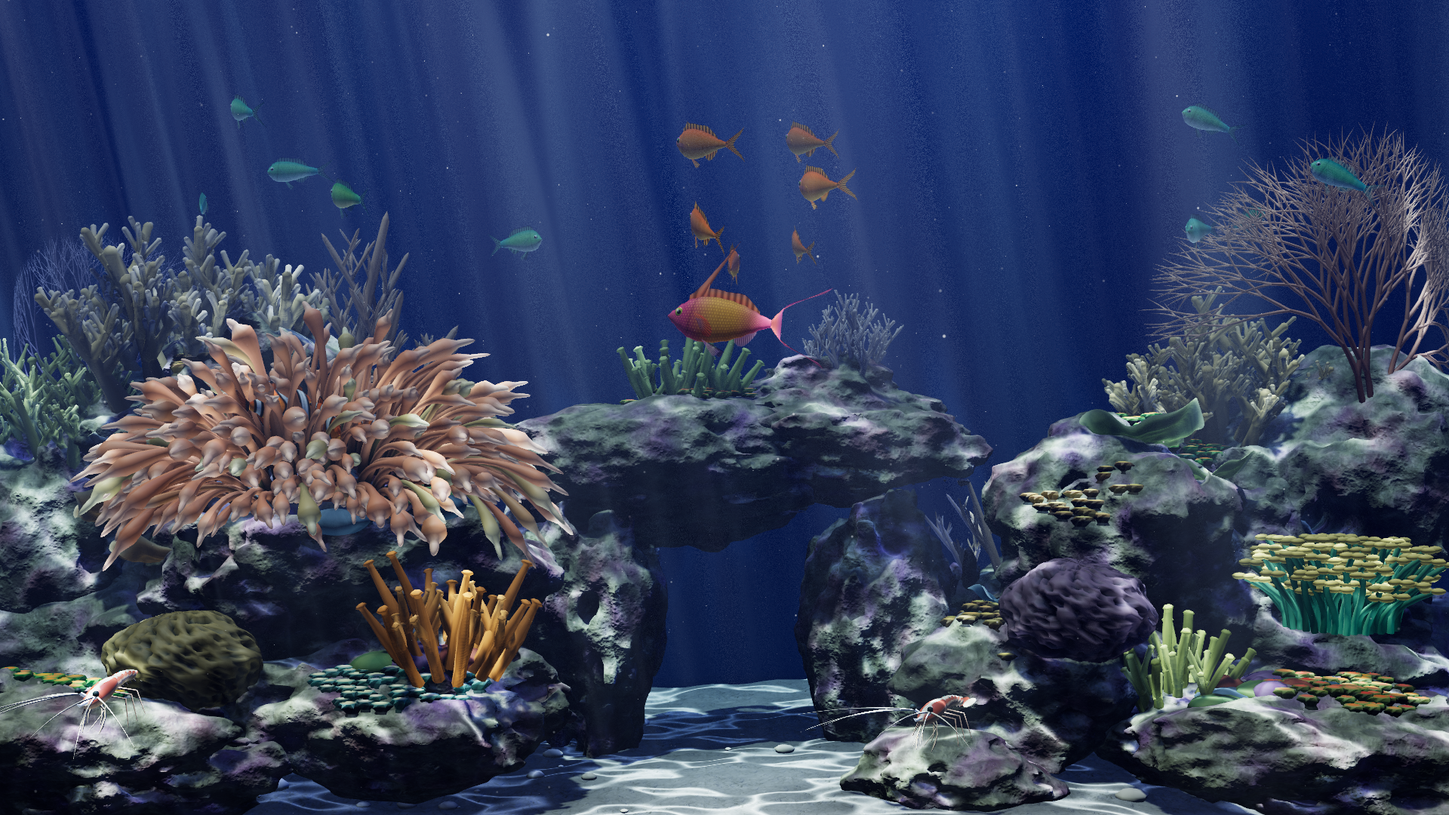
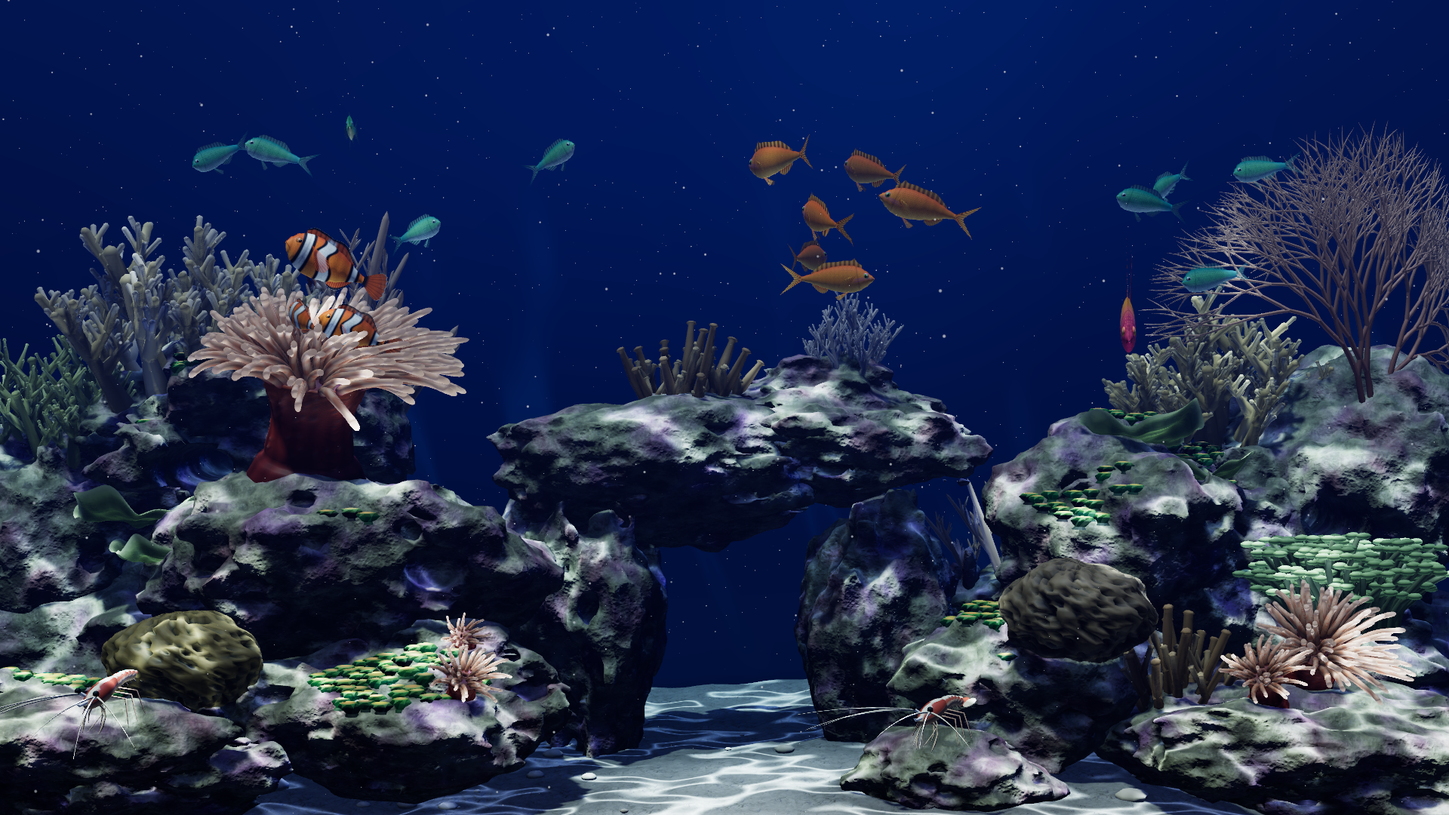
Rebuild Reefscape's anemone as a stem and crown, and clone it across the scape
The anemone is Chase's 2D duskrose anemone from Remora taken into three dimensions with
rotational symmetry: a waisted column with a pedal disc, striation and verrucae standing on
the rock; an oral disc with an elliptical slit mouth; tentacles rooted by stratified radius
and the golden angle, each a circular arc in its own radial frame that leaves the disc at a
lean growing with its ring and curls further outward, with a small out-of-plane wander and
the flow's cantilever bend on top; a finger profile tapering to a narrow neck under a small
knob. Tissue is wine at the root, cream-peach with orange-red blotches along the shaft,
darker toward deep orange where the crown buries it, and translucent through the per-fragment
transmission expression that underwater() offered but nothing had used.

Every proportion is a share of the animal's scale, so ANEMONES in layout.js places the host
and four clones at different sizes and leans, the ones toward the viewer showing their
discs; HOST now names the disc and the column drops from it to the rock. TENTACLE_COUNT is
the sum and the presets take fractions of it. Capture mode gains an arbitrary camera
(?view=custom&camera=…) for judging details no named view frames.

The handoff records the rebuild, the coral thinning, the critic's verdict on the state
before the last fix round, and what is left. docs/images/reefscape-wide.png is regenerated.

diff --git a/scenes/reefscape/src/anemone.js b/scenes/reefscape/src/anemone.js
@@ -1,111 +1,182 @@
 import * as THREE from 'three';
 import { underwater,responseGLSL } from './water.js';
-import { randomGenerator,smoothstep } from './math.js';
-import { tint } from './geometry.js';
-import { HOST } from './layout.js';
+import { randomGenerator,smoothstep,clamp,lerp,noise } from './math.js';
+import { merge } from './geometry.js';
+import { ANEMONES } from './layout.js';
+import { supportHeight } from './terrain.js';
 
-export const TENTACLE_COUNT=440;
-// Crown lengths and girths below are written for a 1.4-unit disc; one factor rescales the
-// whole animal with the host's radius, so the proportions survive a change of size.
-const SCALE=HOST.radius/1.40;
-// Oral disc, rolled margin and column are one surface of revolution: t=1 is the
-// tentacle-bearing margin, past it the body rolls under and tucks into the rock.
-const MARGIN=1.50,DISC_Z=.78,DOME=.44,TUCK=1.45,BODY_T=Math.PI/MARGIN;
-function bodyPoint(a,t,out){
-  const phi=t*MARGIN,fold=1+.075*Math.sin(a*3+.5)+.032*Math.sin(a*7+2.1);
-  const r=HOST.radius*fold*Math.sin(phi)/Math.sin(MARGIN),x=Math.cos(a)*r,z=Math.sin(a)*r*DISC_Z,drop=Math.cos(phi)-Math.cos(MARGIN);
-  // A low oral cone with the mouth sunk into it, plus shallow radial folds.
-  const mouth=.160*Math.exp(-((t/.285)**2))-.165*Math.exp(-((t/.10)**2));
-  return out.set(HOST.x+x,HOST.y+drop*(DOME+TUCK*smoothstep(0,.40,-drop))+mouth+.042*Math.sin(a*5+1.2)*t*t-.13*z,HOST.z+z);
+// One anemone is a column standing on the rock with a crown of tentacles on the oral disc
+// at its top; every proportion below is a share of the animal's scale S, so the clownfish
+// host and a small colony elsewhere are the same animal at different sizes. The shape is
+// Remora's duskrose anemone taken into three dimensions: a rounded foot, a waist and a
+// flare to the rim; tentacles rooted on a golden-angle spiral over the disc, each a
+// tapering finger with a rounded, faintly swollen tip, leaving the disc a little off the
+// axis and arcing further outward along its length, so the inner rings stand and the
+// outer ring hangs over the rim. The crown's reach is roughly REACH·S, and a placement
+// in layout.js states that reach, so the scale follows from it.
+const REACH=.90,COLUMN_HEIGHT=.66,RIM=.36,ROOT_RADIUS=.24;
+// Column silhouette as [share of height, radius/S]: the pedal disc gripping the rock, a
+// waist, and the flare to the rim; cosine-blended so the rim rounds off and the waist is a
+// smooth throat rather than a kink. Below the rock the foot spreads on, hidden, so no
+// edge of it can float over a hollow.
+const COLUMN=[[0,.37],[.10,.31],[.5,.28],[1,RIM]];
+function columnRadius(u){
+  if(u<0)return COLUMN[0][1]*(1-u*.8);
+  for(let i=1;i<COLUMN.length;i++){const [u0,r0]=COLUMN[i-1],[u1,r1]=COLUMN[i];if(u<=u1)return lerp(r0,r1,.5-.5*Math.cos(Math.PI*(u-u0)/(u1-u0)));}
+  return RIM;
 }
+// The disc is a shallow dome over the tentacle field; v runs from the rim (0) to the
+// centre (1). The mouth is an elliptical slit with raised lips, so e is the distance from
+// the centre stretched along the slit's axis.
+const discLift=v=>.045*smoothstep(0,.45,v);
+const mouthLift=e=>.030*Math.exp(-(((e-.20)/.08)**2))-.045*(1-smoothstep(0,.11,e));
+const GOLDEN=Math.PI*(3-Math.sqrt(5)),E=Math.E,hash=seed=>{const v=Math.sin(seed*E)*Math.cos(seed*Math.PI)*1e4;return v-Math.floor(v);};
+// Verrucae: the adhesive warts a column carries, a staggered lattice crowding toward the
+// rim with a share of its sites left bare, read as a pale mottle and a slight relief.
+const VERRUCAE={rows:12,cols:20,skip:.22,jitter:.9,topBias:.55,size:.020};
+function verruca(a,u,seed){
+  const {rows,cols,skip,jitter,topBias,size}=VERRUCAE,rf=Math.pow(clamp(u,0,1),1/topBias)*rows;let best=0;
+  for(let dr=-1;dr<=1;dr++){const row=Math.floor(rf)+dr;if(row<0||row>=rows)continue;
+    const cf=a/(2*Math.PI)*cols-(row%2)/2;
+    for(let dc=-1;dc<=1;dc++){const col=((Math.floor(cf)+dc)%cols+cols)%cols,site=row*cols+col+seed;
+      if(hash(site*E+401)<skip)continue;
+      const cy=Math.pow((row+.5+(hash(site*Math.PI+411)-.5)*jitter)/rows,topBias),cx=(col+.5+(row%2)/2+(hash(site*E+421)-.5)*jitter)/cols*2*Math.PI;
+      const wart=size*(.45+.9*hash(site*E+441))*(.5+.5*cy),da=Math.atan2(Math.sin(a-cx),Math.cos(a-cx))*columnRadius(clamp(u,0,1)),dy=(u-cy)*COLUMN_HEIGHT;
+      best=Math.max(best,Math.exp(-(da*da+dy*dy)/(wart*wart)*1.6)*(.55+.45*hash(site*Math.PI+431)));}}
+  return best;
+}
+const FOOT=new THREE.Color('#7a2c24'),SHAFT=new THREE.Color('#c04a2c'),LIP=new THREE.Color('#d0663a'),WART=new THREE.Color('#e0a08c'),DISC=new THREE.Color('#a8564c'),LIPS=new THREE.Color('#c07868'),MOUTH=new THREE.Color('#3a1018');
+// Each placement becomes one column-and-disc surface of revolution about its own axis,
+// standing on the rock; the disc's dome carries the tentacle roots.
+function specimen(spec,index){
+  const S=spec.radius/REACH,H=COLUMN_HEIGHT*S,up=new THREE.Vector3(0,1,0),axis=new THREE.Vector3();
+  // The axis leans a little with the rock it stands on and by whatever the placement asks
+  // for; the disc's position is authored, the column drops from it to wherever the rock is.
+  const step=.25,lean=spec.lean||[0,0],slopeX=(supportHeight(spec.x+step,spec.z)-supportHeight(spec.x-step,spec.z))/(2*step),slopeZ=(supportHeight(spec.x,spec.z+step)-supportHeight(spec.x,spec.z-step))/(2*step);
+  axis.set(-slopeX*.35+lean[0],1,-slopeZ*.35+lean[1]).normalize();
+  const frame=new THREE.Quaternion().setFromUnitVectors(up,axis),disc=new THREE.Vector3(spec.x,spec.y,spec.z);
+  const foot=disc.clone().addScaledVector(axis,-H),sunk=Math.max(.12*S,foot.y-supportHeight(foot.x,foot.z)+.04);
+  return {S,H,frame,foot,sunk,seed:index*977,count:tentacleCount(spec)};
+}
+function bodyGeometry(sp){
+  const {S,H,frame,foot,sunk,seed}=sp,rings=56,segments=72,pos=[],col=[],idx=[],point=new THREE.Vector3(),color=new THREE.Color(),FOLD=.68;
+  for(let j=0;j<=rings;j++){const t=j/rings;
+    for(let i=0;i<=segments;i++){const a=i/segments*Math.PI*2;
+      let r,y,shade=1;
+      if(t<FOLD){
+        // Column: u runs from below the rock (hidden, so the foot never floats) to the rim.
+        const u=lerp(-sunk/H,1,t/FOLD),wart=verruca(a,u,seed),edge=1+.012*noise(Math.cos(a)*3+seed,u*4,Math.sin(a)*3);
+        // Longitudinal striation: the mesenterial insertions show through the body wall as
+        // shallow grooves that fade below the rim.
+        const groove=Math.pow(.5+.5*Math.cos(a*14+seed),1.5)*(1-smoothstep(.70,.92,u)),base=columnRadius(u);
+        r=S*base*edge*(1-.012*groove)*(1+.8*VERRUCAE.size*wart/base);y=H*u;
+        color.copy(FOOT).lerp(SHAFT,smoothstep(.05,.55,u)).lerp(LIP,smoothstep(.55,1,u)).lerp(WART,Math.min(1,wart*.55));
+        // The crown shades the top of the column and the grooves lie in their own shadow.
+        shade=(1-.42*smoothstep(.72,1,u))*(1-.30*groove);
+      }else{
+        const v=(t-FOLD)/(1-FOLD),e=(1-v)*(1+.30*Math.cos(2*a+seed));r=S*RIM*(1-v);y=H+S*(discLift(v)+mouthLift(e));
+        // Mesenterial lines radiate from the mouth across the disc, which sits in the crown's shade.
+        color.copy(DISC).lerp(LIPS,Math.exp(-(((e-.20)/.10)**2))).lerp(MOUTH,1-smoothstep(.04,.13,e));
+        shade=.45*(1-.14*smoothstep(.55,1,Math.cos(a*24))*smoothstep(.15,.4,v)*(1-smoothstep(.7,.9,v)));
+      }
+      point.set(Math.cos(a)*r,y,Math.sin(a)*r).applyQuaternion(frame).add(foot);
+      pos.push(point.x,point.y,point.z);col.push(color.r*shade,color.g*shade,color.b*shade);
+      if(j<rings&&i<segments){const k=j*(segments+1)+i;idx.push(k,k+segments+1,k+1,k+1,k+segments+1,k+segments+2);}}}
+  const geo=new THREE.BufferGeometry();geo.setAttribute('position',new THREE.Float32BufferAttribute(pos,3));geo.setAttribute('color',new THREE.Float32BufferAttribute(col,3));geo.setIndex(idx);geo.computeVertexNormals();
+  return geo;
+}
+// A tentacle's mesh is a straight tube whose position.y is the axial parameter and whose
+// cross-section is the profile in shares of the base radius; the vertex shader bends it.
+function tentacleGeometry(){
+  const levels=[0,.10,.20,.30,.40,.50,.59,.67,.74,.80,.85,.89,.92,.945,.96,.972,.983,.992,.998,1],sides=12,CAP=.945,pos=[],idx=[];
+  // Tapers to half its base by the neck, swells into a small knob, then closes as a
+  // rounded tip a little longer than it is wide.
+  const neck=s=>(1-.50*Math.pow(s,2.0))*(1+.24*Math.exp(-(((s-.91)/.065)**2)));
+  const radius=s=>s<=CAP?neck(s):neck(CAP)*Math.sqrt(Math.max(0,1-((s-CAP)/(1-CAP))**2));
+  for(let j=0;j<levels.length;j++){const s=levels[j],r=radius(s);
+    for(let i=0;i<=sides;i++){const a=i/sides*Math.PI*2;pos.push(Math.cos(a)*r,s,Math.sin(a)*r);if(j<levels.length-1&&i<sides){const k=j*(sides+1)+i;idx.push(k,k+sides+1,k+1,k+1,k+sides+1,k+sides+2);}}}
+  // Closed base: a root standing a little proud of the disc would otherwise show as a black slot.
+  const hub=pos.length/3;pos.push(0,0,0);for(let i=0;i<sides;i++)idx.push(hub,i,i+1);
+  const geo=new THREE.BufferGeometry();geo.setAttribute('position',new THREE.Float32BufferAttribute(pos,3));geo.setIndex(idx);geo.computeVertexNormals();return geo;
+}
+// A small anemone has fewer tentacles than a large one, but not in proportion to its
+// disc's area (about 170 on the host, 30 on the smallest clone), and for its size they are
+// shorter and stouter: a clone is a stubby-fingered version of the host, not a miniature.
+const tentacleCount=spec=>Math.round(110*Math.pow(spec.radius/REACH,1.3));
+const girthOf=S=>.036*Math.pow(S,.70),lengthOf=S=>.48*Math.pow(S,1.15);
+export const TENTACLE_COUNT=ANEMONES.reduce((n,spec)=>n+tentacleCount(spec),0);
 export function createAnemone(scene){
-  const rng=randomGenerator(8945),pos=[],idx=[];
-  // Entacmaea quadricolor: a near-cylindrical shaft that clubs into a bulb at .875,
-  // wider than it is long, pinched by a short neck. Past CAP the tentacle closes as
-  // a hemisphere of the neck radius — a blunt nipple, never a taper run out to a spike.
-  const levels=[0,.12,.24,.36,.47,.57,.655,.725,.78,.822,.855,.885,.908,.932,.952,.968,.981,.992,1],sides=12,CAP=.932;
-  const club=s=>(.036*(1-.16*s)+.046*Math.exp(-(((s-.875)/.125)**2)))*(1-.55*smoothstep(.885,CAP,s));
-  for(let j=0;j<levels.length;j++){
-    const s=levels[j],radius=s<=CAP?club(s):club(CAP)*Math.sqrt(Math.max(0,1-((s-CAP)/(1-CAP))**2));
-    for(let i=0;i<=sides;i++){const a=i/sides*Math.PI*2;pos.push(Math.cos(a)*radius,s,Math.sin(a)*radius);if(j<levels.length-1&&i<sides){const k=j*(sides+1)+i;idx.push(k,k+sides+1,k+1,k+1,k+sides+1,k+sides+2);}}
-  }
-  // Closed base: a root that is not quite buried would otherwise show as a black
-  // slot, the open tube read through its own back faces.
-  const hub=pos.length/3;pos.push(0,0,0);
-  for(let i=0;i<sides;i++)idx.push(hub,i,i+1);
-  // position.y doubles as the axial parameter; the shader places and shades from it.
-  const geo=new THREE.BufferGeometry();geo.setAttribute('position',new THREE.Float32BufferAttribute(pos,3));geo.setIndex(idx);geo.computeVertexNormals();
-  const shapes=new Float32Array(TENTACLE_COUNT*4),curves=new Float32Array(TENTACLE_COUNT*4);
-  const vertex=`attribute vec4 aShape;attribute vec4 aCurve;varying float vAxis;varying float vTone;varying float vPale;${responseGLSL}
-    // tBend.xy is the shaft lean, .zw the tip curl: the heavier bulb lags the
-    // shaft. Solved once in the normal hook, which three runs before begin_vertex.
-    vec4 tBend;
+  // Built after the terrain, so the columns stand on the baked rock rather than its analytic stand-in.
+  const specimens=ANEMONES.map(specimen),rng=randomGenerator(8945);
+  const vertex=`attribute vec4 aShape;attribute vec4 aCurve;varying float vAxis;varying float vAround;varying float vTone;varying float vRing;varying float vSeed;${responseGLSL}
+    // The resting strand is a circular arc in the local x-y plane (x outward from the disc,
+    // y the anemone's axis): it leaves the disc aCurve.x from the axis and turns a further
+    // aCurve.y by the tip, so a small curl is a straight finger and a large one hooks over
+    // the rim. A slight wander out of that plane, phased per tentacle, keeps a crown seen
+    // face-on from reading as spines on a ball. The flow adds a cantilever bend on top,
+    // solved once in the normal hook, which three runs before begin_vertex.
+    vec2 tSway;vec2 tTip;
     void tentacleSolve(){vec3 root=instanceMatrix[3].xyz;mat3 toLocal=transpose(mat3(instanceMatrix));
-      vec2 shaft=reefResponse(root,reefTime,.50+aShape.x*.55+aShape.y*.70),tip=reefResponse(root,reefTime,1.35+aShape.x*.90);
-      float gain=.85*aShape.x/(.55+aShape.y*.90);
-      tBend=vec4(aCurve.xy+(toLocal*vec3(shaft.x,0.,shaft.y)).xz*gain,aCurve.zw+(toLocal*vec3(tip.x,0.,tip.y)).xz*gain*.55);}
-    float tentacleShorten(){return (.30*dot(tBend.xy,tBend.xy)+.55*dot(tBend.zw,tBend.zw))/aShape.x;}
-    vec3 tentacleCenter(float s){vec2 h=tBend.xy*(s*s*(1.5-.5*s))+tBend.zw*(s*s*s*s);
-      return vec3(h.x,aShape.x*s-tentacleShorten()*s*s*s,h.y);}
-    vec3 tentacleSlope(float s){vec2 h=tBend.xy*(3.*s-1.5*s*s)+tBend.zw*(4.*s*s*s);
-      return vec3(h.x,aShape.x-3.*tentacleShorten()*s*s,h.y);}`;
-  const mat=underwater(new THREE.MeshStandardMaterial({color:'#ffffff',roughness:.56,metalness:0}),{
-    key:'tank-anemone',transmission:.24,vertex,
+      vec2 f=reefResponse(root,reefTime,.45+aShape.x*.60+aCurve.z*.50),g=reefResponse(root,reefTime,1.3+aShape.x*.80);
+      float gain=.90*aShape.x;
+      tSway=(toLocal*vec3(f.x,0.,f.y)).xz*gain;tTip=(toLocal*vec3(g.x,0.,g.y)).xz*gain*.5;}
+    vec3 arcPoint(float s){float c=max(aCurve.y,.02),t=aCurve.x+c*s;return vec3(cos(aCurve.x)-cos(t),sin(t)-sin(aCurve.x),.05*s*sin(s*5.5+aCurve.w*25.)*c)*aShape.x/c;}
+    vec3 arcTangent(float s){float t=aCurve.x+aCurve.y*s;return normalize(vec3(sin(t),cos(t),.05*(sin(s*5.5+aCurve.w*25.)+5.5*s*cos(s*5.5+aCurve.w*25.))));}
+    vec3 tentacleCenter(float s){vec2 h=tSway*s*s+tTip*s*s*s*s;return arcPoint(s)+vec3(h.x,0.,h.y)-arcTangent(s)*(.5*dot(h,h)/aShape.x);}
+    vec3 tentacleSlope(float s){vec2 dh=tSway*2.*s+tTip*4.*s*s*s;return arcTangent(s)*aShape.x+vec3(dh.x,0.,dh.y);}`;
+  const mat=underwater(new THREE.MeshStandardMaterial({color:'#ffffff',roughness:.52,metalness:0}),{
+    key:'tank-anemone',vertex,
+    // Tissue a few cells thick: the base passes a little light, the tip most of it.
+    transmission:'(.20+.40*smoothstep(.20,1.,vAxis))',
     normal:`tentacleSolve();vec3 slope=normalize(tentacleSlope(position.y));vec3 tx=normalize(vec3(slope.y,-slope.x,0.));vec3 tz=normalize(cross(tx,slope));objectNormal=normalize(tx*normal.x+slope*normal.y+tz*normal.z);`,
     begin:`float s=position.y;vec3 dir=normalize(tentacleSlope(s));vec3 ax=normalize(vec3(dir.y,-dir.x,0.));vec3 az=normalize(cross(ax,dir));
-      transformed=tentacleCenter(s)+(ax*position.x+az*position.z)*aShape.y*(1.+.40*(aShape.w-.5)*smoothstep(.50,.84,s));
-      vAxis=s;vTone=aShape.z;vPale=smoothstep(.83+.06*aShape.w,.95,s);`,
-    fragment:`varying float vAxis;varying float vTone;varying float vPale;`,
-    // Wet tissue: the pale bulbs carry the highlight, the shaft stays soft.
-    surfaceNormal:`roughnessFactor*=1.-.15*vPale;`,
+      transformed=tentacleCenter(s)+(ax*position.x+az*position.z)*aShape.y;
+      vAxis=s;vAround=atan(position.z,position.x);vTone=aShape.z;vRing=aShape.w;vSeed=aCurve.w;`,
+    fragment:`varying float vAxis;varying float vAround;varying float vTone;varying float vRing;varying float vSeed;`,
+    // Light through the thin edge of a tentacle: where the surface turns away from the
+    // eye the tissue goes pale and warm instead of dark, and the wet tip carries the highlight.
+    surfaceNormal:`float thin=smoothstep(.30,.95,vAxis),rim=pow(1.-abs(dot(normal,normalize(vViewPosition))),2.5);
+      diffuseColor.rgb=mix(diffuseColor.rgb,vec3(.74,.52,.44),rim*thin*.32);roughnessFactor*=1.-.10*thin;`,
     // Kept below the tone mapper's shoulder: brighter tissue turns chalk, not rose.
-    color:`float olive=smoothstep(.17,.03,vTone);
-      vec3 shaft=mix(vec3(.055,.030,.018),vec3(.115,.050,.026),vTone);
-      vec3 flesh=mix(mix(vec3(.470,.150,.060),vec3(.740,.300,.150),vTone),vec3(.375,.275,.100),olive);
-      vec3 bulb=mix(mix(vec3(.600,.330,.235),vec3(.820,.545,.395),vTone),vec3(.575,.510,.315),olive);
-      // Occlusion inside the crown: low and near the axis is buried, the drooping
-      // outer tentacles stay lit. Cheaper and steadier than shadowing 440 instances.
-      float buried=(1.-smoothstep(.95,1.85,length((vReefWorld.xz-vec2(${HOST.x.toFixed(3)},${HOST.z.toFixed(3)}))/vec2(1.,${DISC_Z}))))*(1.-smoothstep(${(HOST.y+.15).toFixed(3)},${(HOST.y+1.15).toFixed(3)},vReefWorld.y));
-      diffuseColor.rgb=mix(mix(shaft,flesh,smoothstep(.03,.30,vAxis)),bulb,vPale)*(.40+.60*smoothstep(0.,.55,vAxis))*(1.-.72*buried);`
+    // Orange-red pigment lies in irregular blotches along the shaft, not rings: two waves
+    // along the axis beat against one round the tube, phased per tentacle.
+    color:`float mottle=smoothstep(.30,.80,.5+.5*sin(vAxis*17.+vSeed*40.)*sin(vAround*2.+vAxis*6.+vSeed*23.)*(.7+.3*sin(vAxis*7.3-vSeed*13.)));
+      vec3 root=vec3(.16,.035,.05),shaft=mix(vec3(.52,.28,.17),vec3(.64,.38,.26),vTone),bands=vec3(.50,.12,.04),tip=vec3(.60,.36,.25);
+      vec3 tissue=mix(root,shaft,smoothstep(0.,.22,vAxis));
+      tissue=mix(tissue,bands,mottle*.70*smoothstep(.08,.30,vAxis)*(1.-smoothstep(.78,.98,vAxis)));
+      tissue=mix(tissue,tip,smoothstep(.55,1.,vAxis));
+      // Inside the crown the roots and the inner rings' shafts are buried among their
+      // neighbours and only the tips and the outer envelope stand in the light; what
+      // reaches the depths has come through tissue, so they go deep orange rather than
+      // grey. Cheaper and steadier than shadowing a few hundred swaying instances.
+      float buried=(1.-smoothstep(.22,.82,vAxis))*(1.-.60*vRing*vRing);
+      diffuseColor.rgb=mix(tissue,vec3(.14,.035,.01),buried*.78);`
   });
-  const tentacles=new THREE.InstancedMesh(geo,mat,TENTACLE_COUNT),dummy=new THREE.Object3D(),up=new THREE.Vector3(0,1,0);
-  const root=new THREE.Vector3(),normal=new THREE.Vector3(),bend=new THREE.Vector3(),curl=new THREE.Vector3(),inverse=new THREE.Quaternion();
-  for(let i=0;i<TENTACLE_COUNT;i++){
-    // 317 is coprime with the count, so a lowered instance count still draws a
-    // radius- and angle-spread subset instead of only the inner tentacles.
-    const sample=(i*317)%TENTACLE_COUNT,rim=Math.sqrt((sample+.5)/TENTACLE_COUNT),a=sample*2.39996322973+(rng()-.5)*.20;
-    // Crown lobes: a living anemone is never a circle of equal-length tentacles.
-    const len=SCALE*(.47+rng()*.58+(1-rim)*.56)*(1+.17*Math.sin(a*3+1.1)+.09*Math.sin(a*7-.4));
-    // Roots sit on the disc but lean on their own arc: the body's margin is far
-    // steeper than a living disc, which would splay the outer rows flat.
-    const tilt=Math.pow(rim,1.5)*.92+(rng()-.5)*.30;
-    normal.set(Math.cos(a)*Math.sin(tilt)+(rng()-.5)*.11,Math.cos(tilt),Math.sin(a)*Math.sin(tilt)+(rng()-.5)*.11).normalize();
-    // The oral cone is left bare, as on a living disc, so the mouth stays visible.
-    dummy.position.copy(bodyPoint(a,.20+rim*.78,root)).addScaledVector(normal,-.035);
-    dummy.quaternion.setFromUnitVectors(up,normal);dummy.updateMatrix();tentacles.setMatrixAt(i,dummy.matrix);
-    inverse.copy(dummy.quaternion).invert();
-    // Lean and curl are world vectors; only their transverse part bends a
-    // tentacle, so upright ones stand while margin ones hang over the rock.
-    const lean=a+(rng()-.5)*1.3,flare=(.10+.30*rim*rim)*len*(.4+1.1*rng()),swing=lean+(rng()-.5)*3.,tip=(.14+.40*rng())*len;
-    bend.set(Math.cos(lean)*flare,-(.16+.45*rim)*len,Math.sin(lean)*flare*.92).applyQuaternion(inverse);
-    curl.set(Math.cos(swing)*tip,-(.20+.45*rng())*len,Math.sin(swing)*tip*.9).applyQuaternion(inverse);
-    // aShape: length, girth, tone, plump (bulb width and how far down the pale runs).
-    shapes.set([len,SCALE*(.85+rng()*.75),rng(),rng()],i*4);
-    curves.set([bend.x,bend.z,curl.x,curl.z],i*4);
+  const tentacles=new THREE.InstancedMesh(tentacleGeometry(),mat,TENTACLE_COUNT),shapes=new Float32Array(TENTACLE_COUNT*4),curves=new Float32Array(TENTACLE_COUNT*4);
+  const matrix=new THREE.Matrix4(),rotation=new THREE.Matrix4(),X=new THREE.Vector3(),Y=new THREE.Vector3(),Z=new THREE.Vector3(),root=new THREE.Vector3();
+  const all=[];
+  for(const sp of specimens){const {S,H,frame,foot,count}=sp;
+    for(let i=0;i<count;i++){
+      // Stratified radius and the golden angle: even coverage of the annulus round the
+      // bare mouth with no clumps and no gaps, from the index alone.
+      const rr=Math.sqrt(ROOT_RADIUS*ROOT_RADIUS+(1-ROOT_RADIUS*ROOT_RADIUS)*(i+.5)/count),ring=(rr-ROOT_RADIUS)/(1-ROOT_RADIUS);
+      const a=i*GOLDEN+(rng()-.5)*.44,rootRadius=clamp(rr+(rng()-.5)*.10,ROOT_RADIUS*.9,1);
+      X.set(Math.cos(a),0,Math.sin(a));Y.set(0,1,0);Z.crossVectors(X,Y);
+      root.set(X.x*rootRadius*RIM*S,H+S*discLift(1-rootRadius)-.006*S,X.z*rootRadius*RIM*S).applyQuaternion(frame).add(foot);
+      rotation.makeBasis(X,Y,Z);matrix.makeRotationFromQuaternion(frame).multiply(rotation).setPosition(root);
+      // Rim tentacles are longer and leave the disc at a greater lean; every strand turns
+      // further outward along its length by its own amount, unevenly across the crown.
+      const len=lengthOf(S)*(.88+.50*ring)*(.86+.28*rng()),girth=girthOf(S)*(.85+.30*rng()),tilt=.25+.75*Math.pow(ring,1.2),curl=(.20+.80*rng())*(.60+.75*ring);
+      all.push({matrix:matrix.clone(),shape:[len,girth,rng(),ring],curve:[tilt,curl,rng(),rng()]});
+    }
   }
-  geo.setAttribute('aShape',new THREE.InstancedBufferAttribute(shapes,4));geo.setAttribute('aCurve',new THREE.InstancedBufferAttribute(curves,4));
+  // 317 is coprime with the count, so a lowered instance count still draws a spread of
+  // rings and of anemones instead of one crown's inner tentacles.
+  const stride=[317,313,311,307].find(p=>TENTACLE_COUNT%p)||1;
+  for(let i=0;i<TENTACLE_COUNT;i++){const t=all[(i*stride)%TENTACLE_COUNT];tentacles.setMatrixAt(i,t.matrix);shapes.set(t.shape,i*4);curves.set(t.curve,i*4);}
+  tentacles.geometry.setAttribute('aShape',new THREE.InstancedBufferAttribute(shapes,4));tentacles.geometry.setAttribute('aCurve',new THREE.InstancedBufferAttribute(curves,4));
   tentacles.frustumCulled=false;tentacles.receiveShadow=true;scene.add(tentacles);
-  const rings=30,segments=80,bp=[],bidx=[],point=new THREE.Vector3();
-  for(let j=0;j<=rings;j++){const t=BODY_T*Math.pow(j/rings,1.35);
-    for(let i=0;i<=segments;i++){bodyPoint(i/segments*Math.PI*2,t,point);bp.push(point.x,point.y,point.z);
-      if(j<rings&&i<segments){const k=j*(segments+1)+i;bidx.push(k,k+segments+1,k+1,k+1,k+segments+1,k+segments+2);}}}
-  const bodyGeo=new THREE.BufferGeometry();bodyGeo.setAttribute('position',new THREE.Float32BufferAttribute(bp,3));bodyGeo.setIndex(bidx);bodyGeo.computeVertexNormals();
-  const mouth=new THREE.Color('#4a1a15'),oral=new THREE.Color('#bb6a4e'),col=new THREE.Color('#94505a');
-  tint(bodyGeo,(p,i)=>{const t=BODY_T*Math.pow(Math.floor(i/(segments+1))/rings,1.35),a=(i%(segments+1))/segments*Math.PI*2;
-    // Radial mesenterial lines fade out before the margin; the column sits in shade.
-    return mouth.clone().lerp(oral,smoothstep(.04,.22,t)).lerp(col,smoothstep(.92,1.45,t))
-      .multiplyScalar((1+.11*Math.sin(a*26)*smoothstep(.10,.50,t)*(1-smoothstep(.75,1.05,t)))*(1-.62*smoothstep(1.,1.6,t)));});
-  const body=new THREE.Mesh(bodyGeo,underwater(new THREE.MeshStandardMaterial({vertexColors:true,roughness:.62}),{key:'anemone-body',transmission:.10}));
+  const body=new THREE.Mesh(merge(specimens.map(bodyGeometry)),underwater(new THREE.MeshStandardMaterial({vertexColors:true,roughness:.44}),{key:'anemone-body',transmission:.10}));
   body.castShadow=body.receiveShadow=true;scene.add(body);
   return {tentacles,count:TENTACLE_COUNT};
 }

diff --git a/scenes/reefscape/src/main.js b/scenes/reefscape/src/main.js
@@ -51,10 +51,13 @@ async function start(){
   const camera=new THREE.PerspectiveCamera(36,16/9,.08,140);
   const views={
     wide:{position:[0,4.3,18.2],target:[0,3.35,0],fov:25.8},
-    anemone:{position:[-1.5,4.7,10.5],target:[-3.7,3.40,1.1],fov:34},
+    anemone:{position:[-1.5,4.9,10.5],target:[-3.85,3.80,1.0],fov:34},
     shrimp:{position:[4.5,2.1,7.6],target:[2.45,.75,2.2],fov:30},
     fish:{position:[-1.0,5.2,8.6],target:[-1.6,5.2,-.4],fov:19},
   };
+  // Capture mode may bring its own camera, for judging a detail no named view frames:
+  // ?view=custom&camera=x,y,z,tx,ty,tz,fov
+  if(capture&&params.has('camera')){const c=params.get('camera').split(',').map(Number);if(c.length>=6&&c.every(Number.isFinite))views.custom={position:c.slice(0,3),target:c.slice(3,6),fov:c[6]||30};}
   let view=params.get('view')||'wide';if(!views[view])view='wide';
   const postRight=new THREE.Vector3(),postUp=new THREE.Vector3(),postForward=new THREE.Vector3();
   // Declared here, but only ever called once the post material below exists.
@@ -169,7 +172,7 @@ async function start(){
   changePower=()=>{resize();restart();};
   function resize(draw=true){
     const width=Math.max(1,habitat.clientWidth),height=Math.max(1,habitat.clientHeight),preset=presets[quality];
-    anemone.tentacles.count=quality==='eco'?250:quality==='detail'?TENTACLE_COUNT:310;
+    anemone.tentacles.count=Math.round(TENTACLE_COUNT*(quality==='eco'?.57:quality==='detail'?1:.70));
     ratio=Math.min(devicePixelRatio||1,preset.dpr,Math.sqrt(preset.pixels/(width*height)))*autoScale*(onBattery?.90:1);
     const w=Math.max(1,Math.round(width*ratio)),h=Math.max(1,Math.round(height*ratio));renderer.setSize(w,h,false);target.setSize(w,h);post.uniforms.size.value.set(w,h);post.uniforms.aoRadiusScale.value=h/972;
     camera.aspect=width/height;

diff --git a/scenes/reefscape/src/layout.js b/scenes/reefscape/src/layout.js
@@ -22,7 +22,21 @@ export const ROCKS=[
   [-.55,2.62,-1.20,1.65,.78,1.00],
   [1.25,2.98,-1.28,1.50,.72,.92],
 ];
-export const HOST={x:-3.95,y:2.69,z:1.0,radius:1.15};
+// The clownfish host, on the left island's front shoulder. x, y, z is its oral disc — the
+// column runs from there down to the rock — and radius the crown's reach; the clownfish
+// goals, their shelter point and the non-host avoidance all key off these. lean tips the
+// axis (x and z, as a share of its height) so the disc faces the viewer a little.
+export const HOST={x:-3.95,y:3.72,z:1.0,radius:1.25,lean:[.10,.30]};
+// Every anemone in the tank, the host first; anemone.js builds them all as one animal at
+// different sizes. The clones sit low, inside the wide frame, on rock that carries nothing
+// else, so the host's form repeats down the scape instead of standing as a one-off, and
+// each leans its own way, the ones toward the viewer showing their discs. y is the disc's
+// height over the rock there.
+export const ANEMONES=[HOST,
+  {x:5.50,y:1.24,z:2.00,radius:.70,lean:[.15,.80]},
+  {x:4.80,y:1.10,z:2.50,radius:.42,lean:[-.30,.50]},
+  {x:-2.35,y:1.02,z:2.25,radius:.40,lean:[.20,.50]},
+  {x:-2.45,y:1.30,z:1.75,radius:.26,lean:[0,.60]}];
 // Both stations are flat rock shoulders the cleaner shrimp advertise from. Their y is the
 // rock top there — the shrimp seat themselves off the baked surface, but a station buried
 // inside the rock would still send grazing fish to the wrong height.
